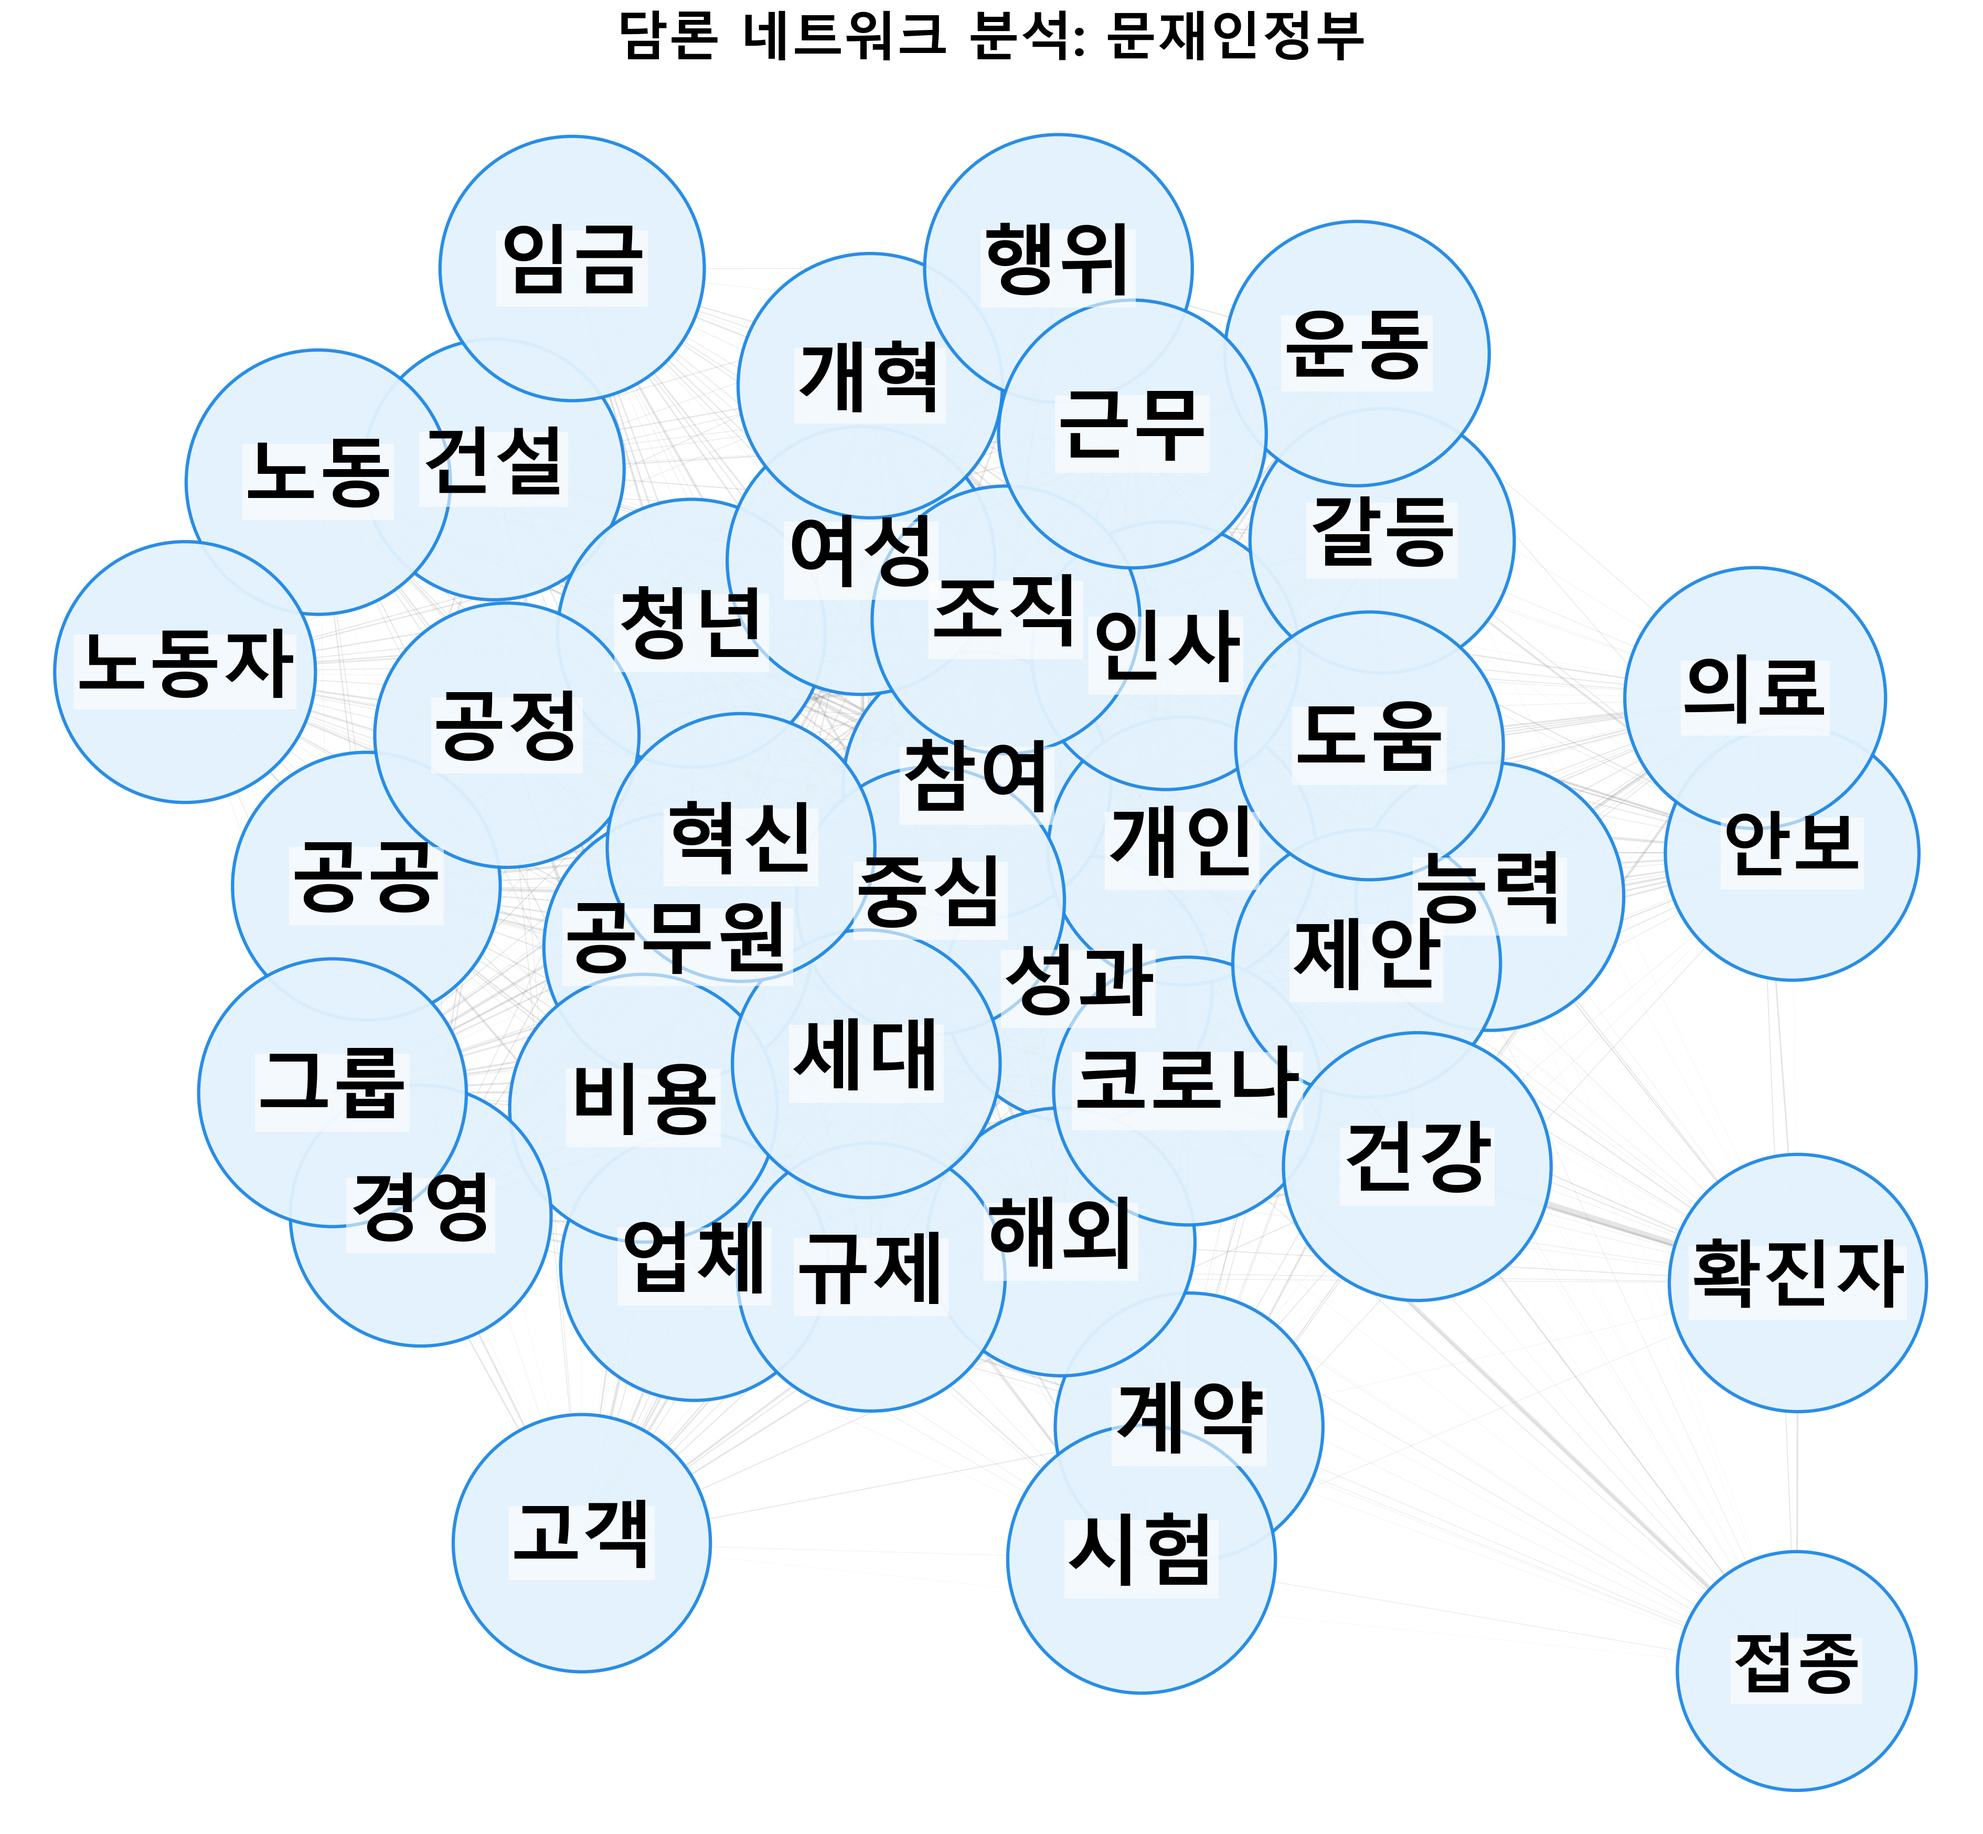
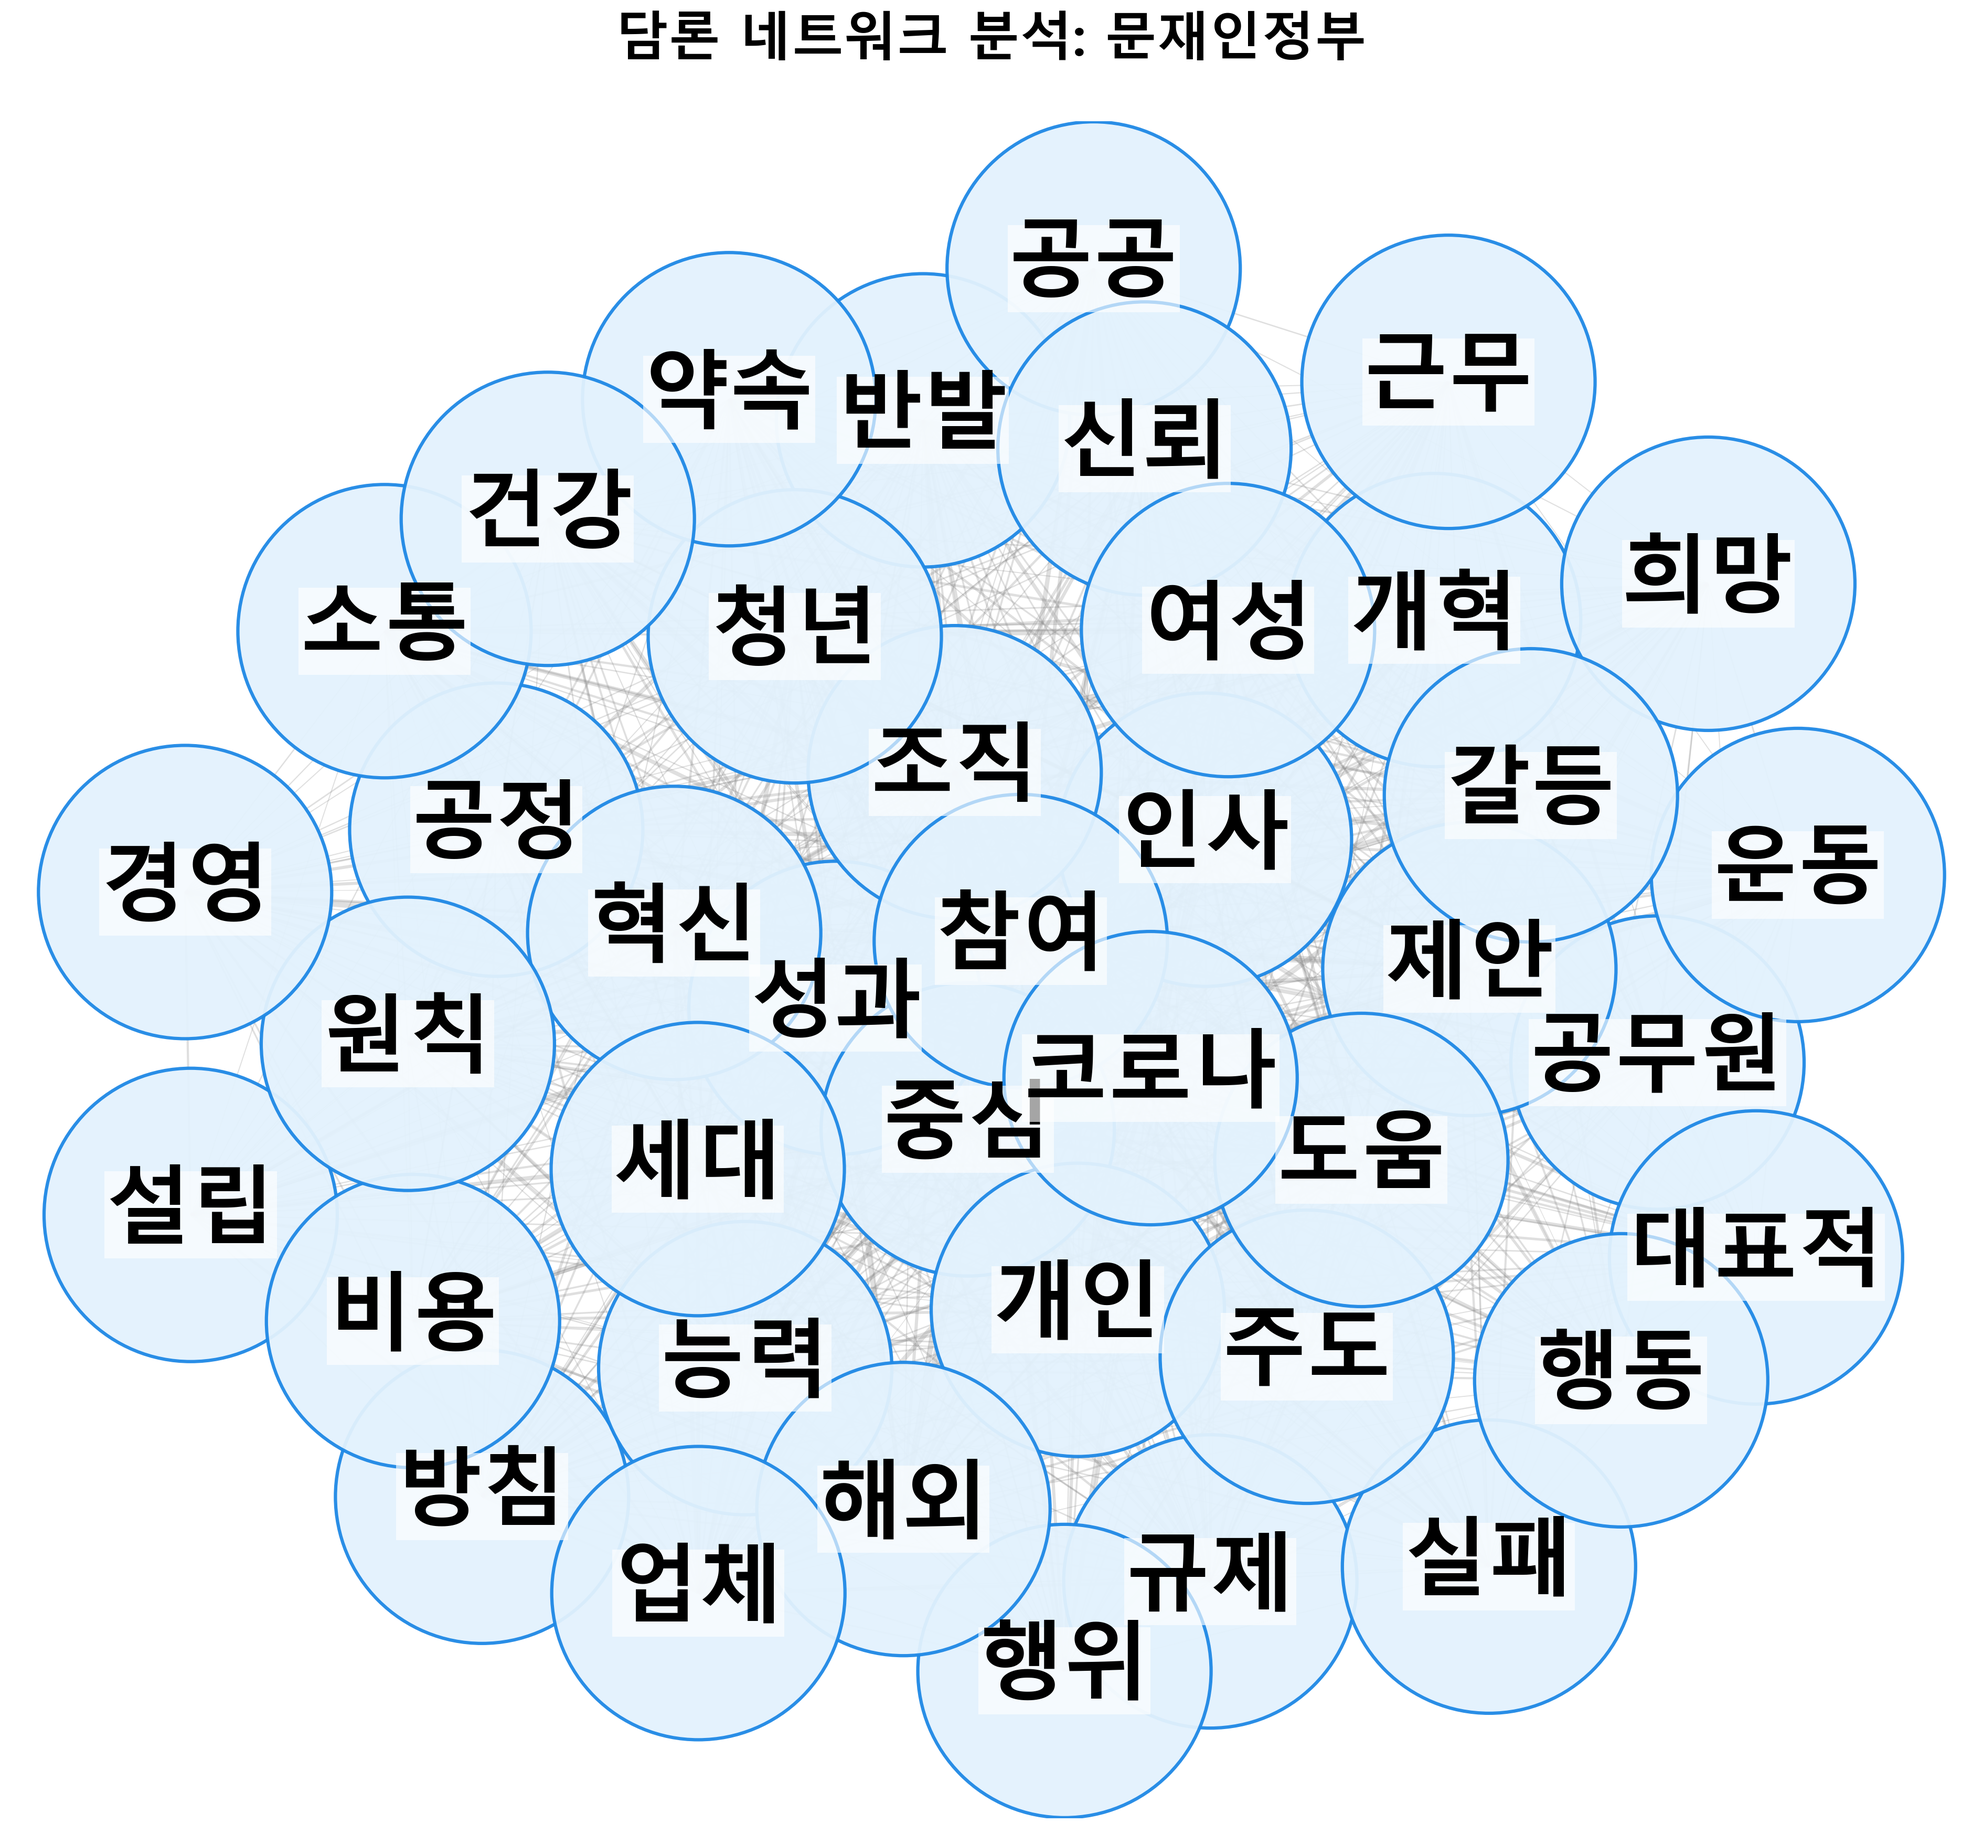
Feat: 공출현 분석 완료

diff --git a/code/06_cooccurrence.py b/code/06_cooccurrence.py
@@ -1,203 +1,124 @@
 # -*- coding: utf-8 -*-
 
 import pandas as pd
-import matplotlib.pyplot as plt
-import matplotlib.font_manager as fm
-import networkx as nx
 import os
+import math
 from itertools import combinations
 from collections import Counter
-import platform
 from stopwords import STOPWORDS
 
 # ===============================
-# 1. 환경 설정
+# 1. 설정
 # ===============================
-if platform.system() == "Windows":
-    font_path = "C:/Windows/Fonts/malgun.ttf"
-    font_name = fm.FontProperties(fname=font_path).get_name()
-    plt.rc("font", family=font_name)
-else:
-    plt.rc("font", family="AppleGothic")
-
-plt.rcParams["axes.unicode_minus"] = False
 STOPWORDS_LIST = set(STOPWORDS())
-
 output_dir = "../result"
 os.makedirs(output_dir, exist_ok=True)
 
 # ===============================
-# 2. 공출현 네트워크 함수 (정직한 버전)
+# 2. PMI 계산 함수
 # ===============================
-def build_cooccurrence_network(
-    df,
-    gov_name,
-    top_n_words=40,          # 시각화용 노드 수
-    min_edge_ratio=0.002    # 전체 문서 대비 0.2% 이상 공출현
-):
-    print(f"\n📌 담론 네트워크 분석 시작: {gov_name}")
-
-    # ---------------------------
-    # (1) 정부별 전체 데이터 사용 (샘플링 제거)
-    # ---------------------------
-    target_df = df[df["정부"] == gov_name].copy()
-
-    if target_df.empty:
-        print("⚠ 데이터 없음")
-        return
-
-    # ---------------------------
-    # (2) 문서별 단어 집합 구성
-    # ---------------------------
-    documents = []
-    all_words = []
-
-    for doc in target_df["text"].dropna():
-        words = {
-            w for w in str(doc).split()
-            if len(w) > 1 and w not in STOPWORDS_LIST
-        }
-        if words:
-            documents.append(words)
-            all_words.extend(words)
-
+def compute_pmi(documents, keywords):
     total_docs = len(documents)
-    if total_docs == 0:
-        print("⚠ 유효 문서 없음")
-        return
-
-    # ---------------------------
-    # (3) 전체 데이터 기준 빈도 상위 단어 선택
-    #     (⚠ 분석 개입 아님, 시각화 제한용)
-    # ---------------------------
-    top_words = {
-        w for w, _ in Counter(all_words).most_common(top_n_words)
-    }
-
-    # ---------------------------
-    # (4) 공출현 계산 (전체 문서 기준)
-    # ---------------------------
+    word_doc_freq = Counter()
     pair_counter = Counter()
 
     for words in documents:
-        filtered = sorted(words & top_words)
+        filtered = words & keywords
+        word_doc_freq.update(filtered)
         if len(filtered) >= 2:
-            pair_counter.update(combinations(filtered, 2))
+            pair_counter.update(combinations(sorted(filtered), 2))
 
-    # ---------------------------
-    # (5) 공출현 비율 기준 필터링
-    # ---------------------------
-    edges = []
-    for (w1, w2), count in pair_counter.items():
-        ratio = count / total_docs
-        if ratio >= min_edge_ratio:
-            edges.append((w1, w2, ratio))
+    pmi = {}
+    for (w1, w2), co_cnt in pair_counter.items():
+        p_xy = co_cnt / total_docs
+        p_x = word_doc_freq[w1] / total_docs
+        p_y = word_doc_freq[w2] / total_docs
 
-    if not edges:
-        print("⚠ 유의미한 공출현 없음")
-        return
+        if p_xy > 0 and p_x > 0 and p_y > 0:
+            pmi[(w1, w2)] = math.log2(p_xy / (p_x * p_y))
 
-    # ---------------------------
-    # (6) 그래프 생성
-    # ---------------------------
-    G = nx.Graph()
-    for w1, w2, weight in edges:
-        G.add_edge(w1, w2, weight=weight)
+    return pmi
 
-    G.remove_nodes_from(list(nx.isolates(G)))
+# ===============================
+# 3. 차별 공출현 테이블 생성
+# ===============================
+def build_differential_cooccurrence_table(
+    text_df,
+    keywords,
+    min_delta_pmi=0.3,
+    top_n=30
+):
+    print("\n📌 차별 공출현 테이블 생성 시작")
 
-    if G.number_of_nodes() == 0:
-        print("⚠ 네트워크 생성 실패")
-        return
+    docs = {}
+    for gov in ["박근혜정부", "문재인정부"]:
+        gov_docs = []
+        for doc in text_df[text_df["정부"] == gov]["text"].dropna():
+            words = {
+                w for w in str(doc).split()
+                if w in keywords and w not in STOPWORDS_LIST
+            }
+            if words:
+                gov_docs.append(words)
+        docs[gov] = gov_docs
+        print(f" - {gov}: 문서 수 {len(gov_docs)}")
 
-    # ---------------------------
-    # (7) 중심성 계산
-    # ---------------------------
-    centrality = nx.degree_centrality(G)
+    pmi_pk = compute_pmi(docs["박근혜정부"], keywords)
+    pmi_mj = compute_pmi(docs["문재인정부"], keywords)
 
-    # ===============================
-    # 3. 시각화
-    # ===============================
-    plt.figure(figsize=(16, 14))
+    rows = []
+    all_pairs = set(pmi_pk.keys()) | set(pmi_mj.keys())
 
-    pos = nx.spring_layout(
-        G,
-        k=1.2,
-        iterations=250,
-        seed=42
-    )
+    for w1, w2 in all_pairs:
+        delta = pmi_mj.get((w1, w2), 0) - pmi_pk.get((w1, w2), 0)
+        if abs(delta) >= min_delta_pmi:
+            rows.append({
+                "키워드1": w1,
+                "키워드2": w2,
+                "PMI_박근혜": round(pmi_pk.get((w1, w2), 0), 3),
+                "PMI_문재인": round(pmi_mj.get((w1, w2), 0), 3),
+                "ΔPMI": round(delta, 3),
+                "강화_시기": "문재인정부" if delta > 0 else "박근혜정부"
+            })
 
-    # 에지
-    weights = [G[u][v]["weight"] for u, v in G.edges()]
-    max_w = max(weights)
-    edge_widths = [(w / max_w) * 4 for w in weights]
+    df = pd.DataFrame(rows).sort_values("ΔPMI", ascending=False)
 
-    nx.draw_networkx_edges(
-        G,
-        pos,
-        width=edge_widths,
-        alpha=0.25,
-        edge_color="gray"
-    )
+    # 상·하위 고정
+    df_final = pd.concat([
+        df.head(top_n),
+        df.tail(top_n)
+    ])
 
-    # 노드
-    node_sizes = [centrality[n] * 18000 for n in G.nodes()]
-    nx.draw_networkx_nodes(
-        G,
-        pos,
-        node_size=node_sizes,
-        node_color="#E3F2FD",
-        edgecolors="#1E88E5",
-        linewidths=1.5,
-        alpha=0.95
-    )
-
-    # 라벨
-    for node, (x, y) in pos.items():
-        font_size = 11 + centrality[node] * 28
-        plt.text(
-            x, y, node,
-            fontsize=font_size,
-            fontweight="bold",
-            ha="center",
-            va="center",
-            bbox=dict(
-                facecolor="white",
-                edgecolor="none",
-                alpha=0.65,
-                pad=0.25
-            )
-        )
-
-    plt.title(
-        f"담론 네트워크 분석: {gov_name}",
-        fontsize=24,
-        fontweight="bold",
-        pad=30
-    )
-    plt.axis("off")
-
-    save_path = os.path.join(
-        output_dir,
-        f"cooccurrence_network_{gov_name}.png"
-    )
-    plt.savefig(save_path, dpi=300, bbox_inches="tight")
-    plt.close()
+    save_path = os.path.join(output_dir, "differential_cooccurrence_table.csv")
+    df_final.to_csv(save_path, index=False, encoding="utf-8-sig")
 
     print(f"✅ 저장 완료: {save_path}")
-    print("🔑 상위 중심 단어:",
-          sorted(centrality, key=centrality.get, reverse=True)[:10])
+    return df_final
 
 # ===============================
 # 4. 실행부
 # ===============================
 if __name__ == "__main__":
-    df_path = "../datas/preprocessed_2013_2022.csv"
+    text_df = pd.read_csv(
+        "../datas/preprocessed_2013_2022.csv",
+        encoding="utf-8-sig"
+    )
 
-    if not os.path.exists(df_path):
-        raise FileNotFoundError("❌ 데이터 파일을 찾을 수 없습니다.")
+    # 🔑 TF-IDF 증감률 상위 키워드 (논문 기준 고정)
+    KEYWORDS = {
+        "공정", "규제", "세대", "공공", "근무", "체계", "인재", "인력",
+        "청년", "여성", "인권", "소통", "참여", "조직", "개혁",
+        "공무원", "연금", "노동", "성과", "혁신",
+        "임금", "인사", "방침", "갈등", "경쟁력", "중심"
+    }
 
-    df = pd.read_csv(df_path, encoding="utf-8-sig")
+    df_result = build_differential_cooccurrence_table(
+        text_df=text_df,
+        keywords=KEYWORDS
+    )
 
-    build_cooccurrence_network(df, "박근혜정부")
-    build_cooccurrence_network(df, "문재인정부")
+    print("\n🔎 상위 ΔPMI (문재인 ↑)")
+    print(df_result.head(10))
+
+    print("\n🔎 하위 ΔPMI (박근혜 ↑)")
+    print(df_result.tail(10))
